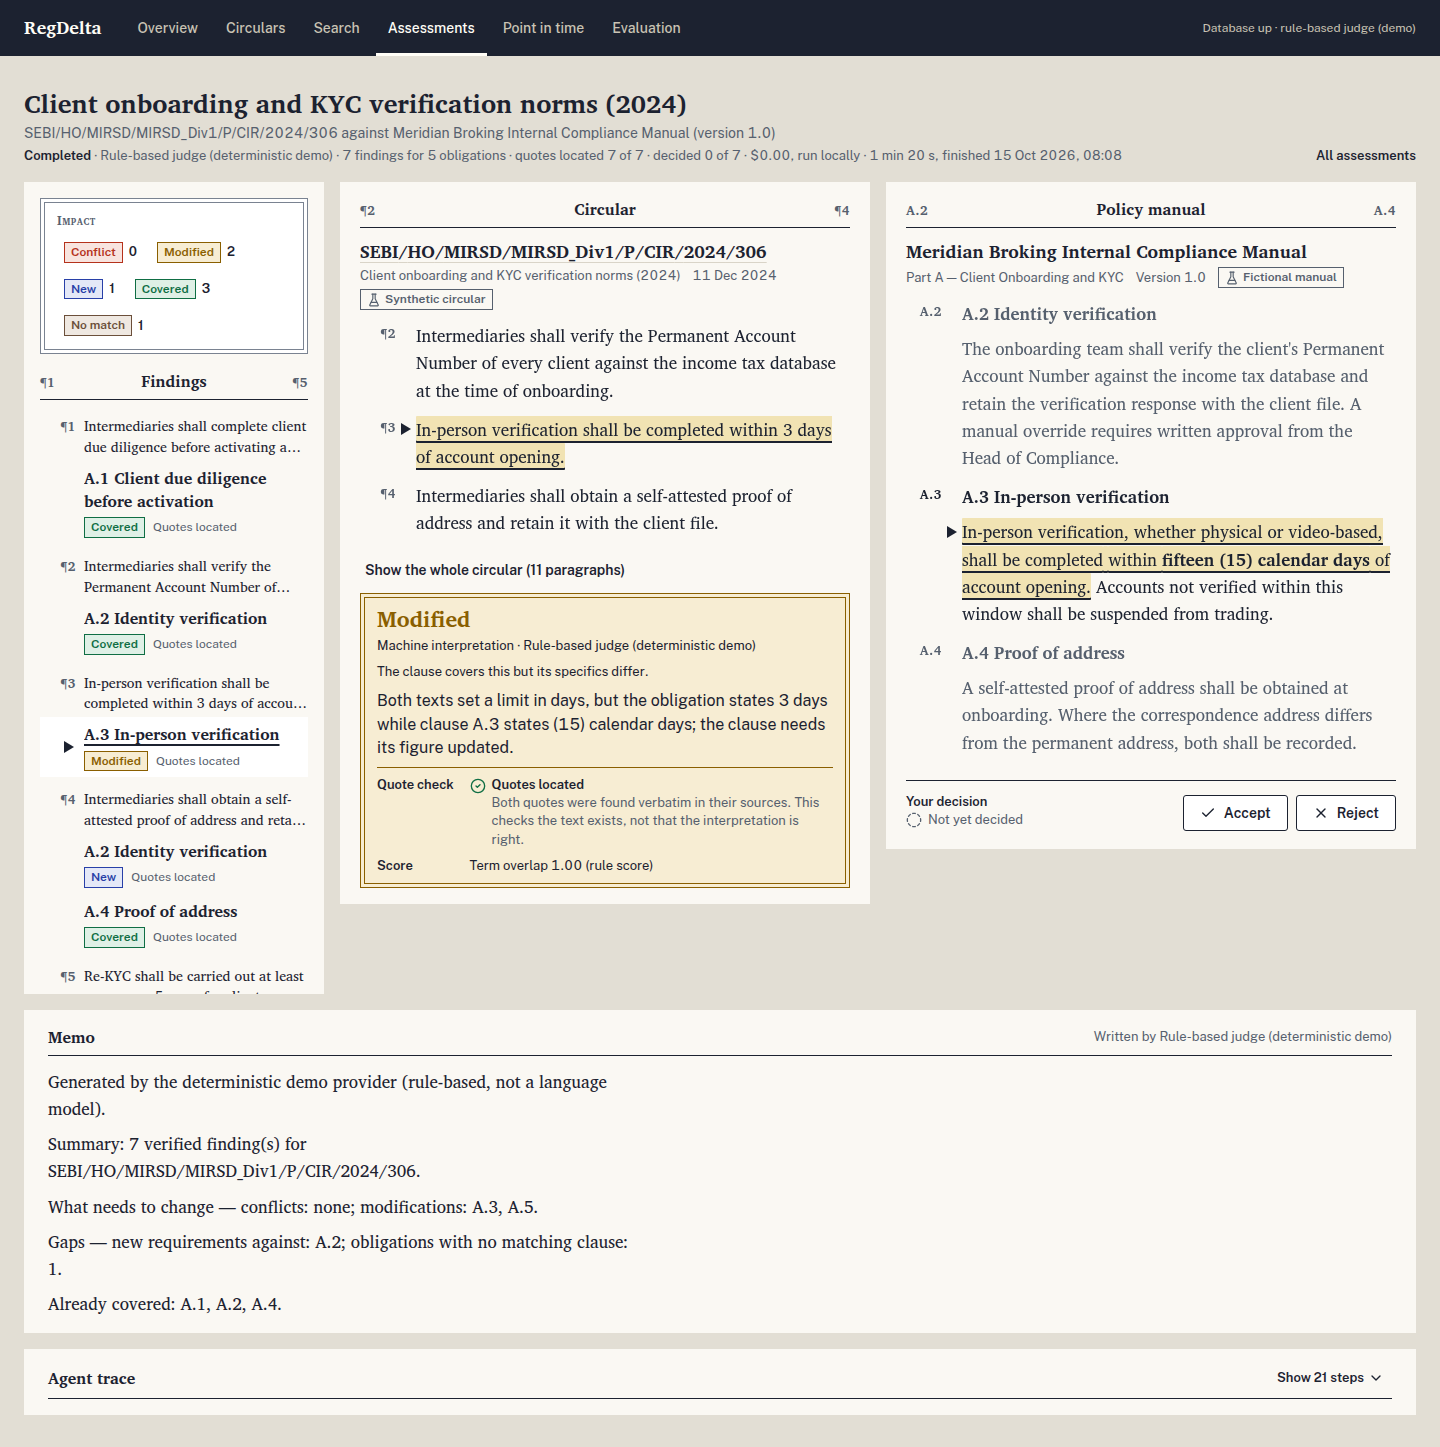
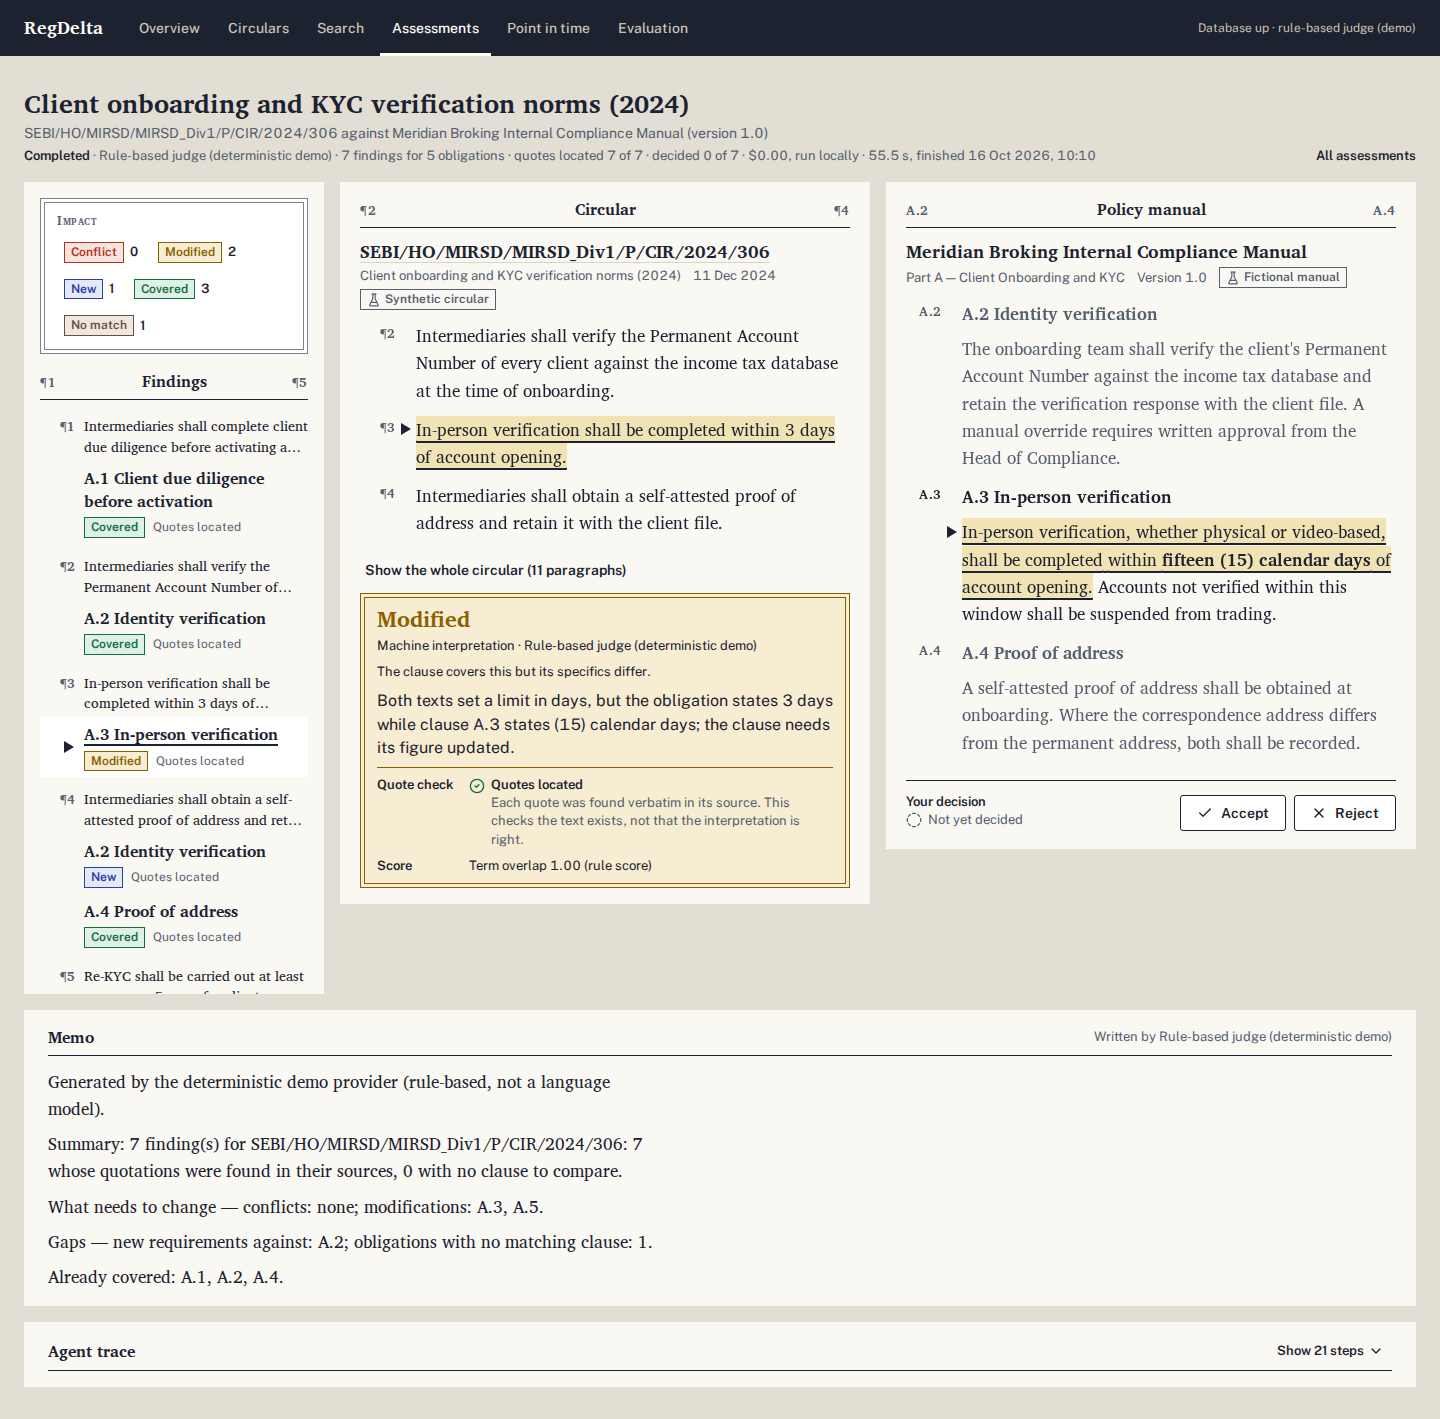
docs(screenshots): the workspace as it is now, at 1440 and 390 px
Recaptured from the running release-repair build (graph v3, end-to-end
database, deterministic judge) and inspected: workspace-1440, -390
(stale since eb0325f, now with the circular number wrapping after a
slash), -decided-1440 and the simulated -capped-failed-1440, plus a new
workspace-memo-1440 showing the corrected memo summary. Full-page captures
unpin the sticky header the way the visual spec does. The simulated
image's README entry now says it alters a real deterministic run.

diff --git a/docs/screenshots/after/README.md b/docs/screenshots/after/README.md
@@ -2,14 +2,19 @@
 
 Captured on 2026-10-15 from the build committed with this folder, against
 the seeded synthetic demo database, with the deterministic rule-based judge.
+The five workspace images were captured again on 2026-10-16 from the release
+repair's code (graph v3), on the end-to-end database: they show the current
+quote-check wording ("Each quote was found verbatim in its source") and the
+memo summary that counts quotations found instead of "verified" findings.
 Every circular is generated and the manual is fictional. `../before/` holds the interface as it was at
 `f4a4b57`.
 
 | File | What it shows |
 |---|---|
 | `workspace-1440.png`, `workspace-390.png` | The assessment workspace: findings index, circular and manual leaves with the located quotes marked, the verdict plate, the decision bar, the memo. At 390 px the index becomes a picker with previous and next. |
+| `workspace-memo-1440.png` | The memo alone: "7 finding(s) for … : 7 whose quotations were found in their sources, 0 with no clause to compare". It is labelled as written by the rule-based judge. |
 | `workspace-decided-1440.png` | The same finding after **Accept**, once the server has stored it: the tick in both margins and the decision's time. |
-| `workspace-capped-failed-1440.png` | **Simulated state.** The run and finding were served from a synthetic payload by route interception, because the seeded demo run neither stops at a limit nor misquotes: a run stopped at its call limit, a task that failed, and a finding whose clause quote was not located (struck through in the plate). The provider name in it is part of that payload; no model was called. |
+| `workspace-capped-failed-1440.png` | **Simulated state.** A real run's response was altered by route interception, because the seeded demo run neither stops at a limit nor misquotes: the run shown stopped at its call limit, with one task failed and one finding whose clause quote was not located (struck through in the plate). The judge named is the deterministic one that produced the underlying run; no model was called. |
 | `circular-detail-1440.png`, `circular-detail-390.png` | A circular as a leaf with its obligations underlined, the assessment launcher, relationships and provenance. |
 | `search-1440.png` | Hybrid search with the query's terms marked. The results are near-duplicates because the synthetic corpus is generated from eight templates. |
 | `search-refused-1440.png` | The reranked mode refusing an out-of-scope question. It took 2 min 19 s on the evaluation laptop, under load. |
